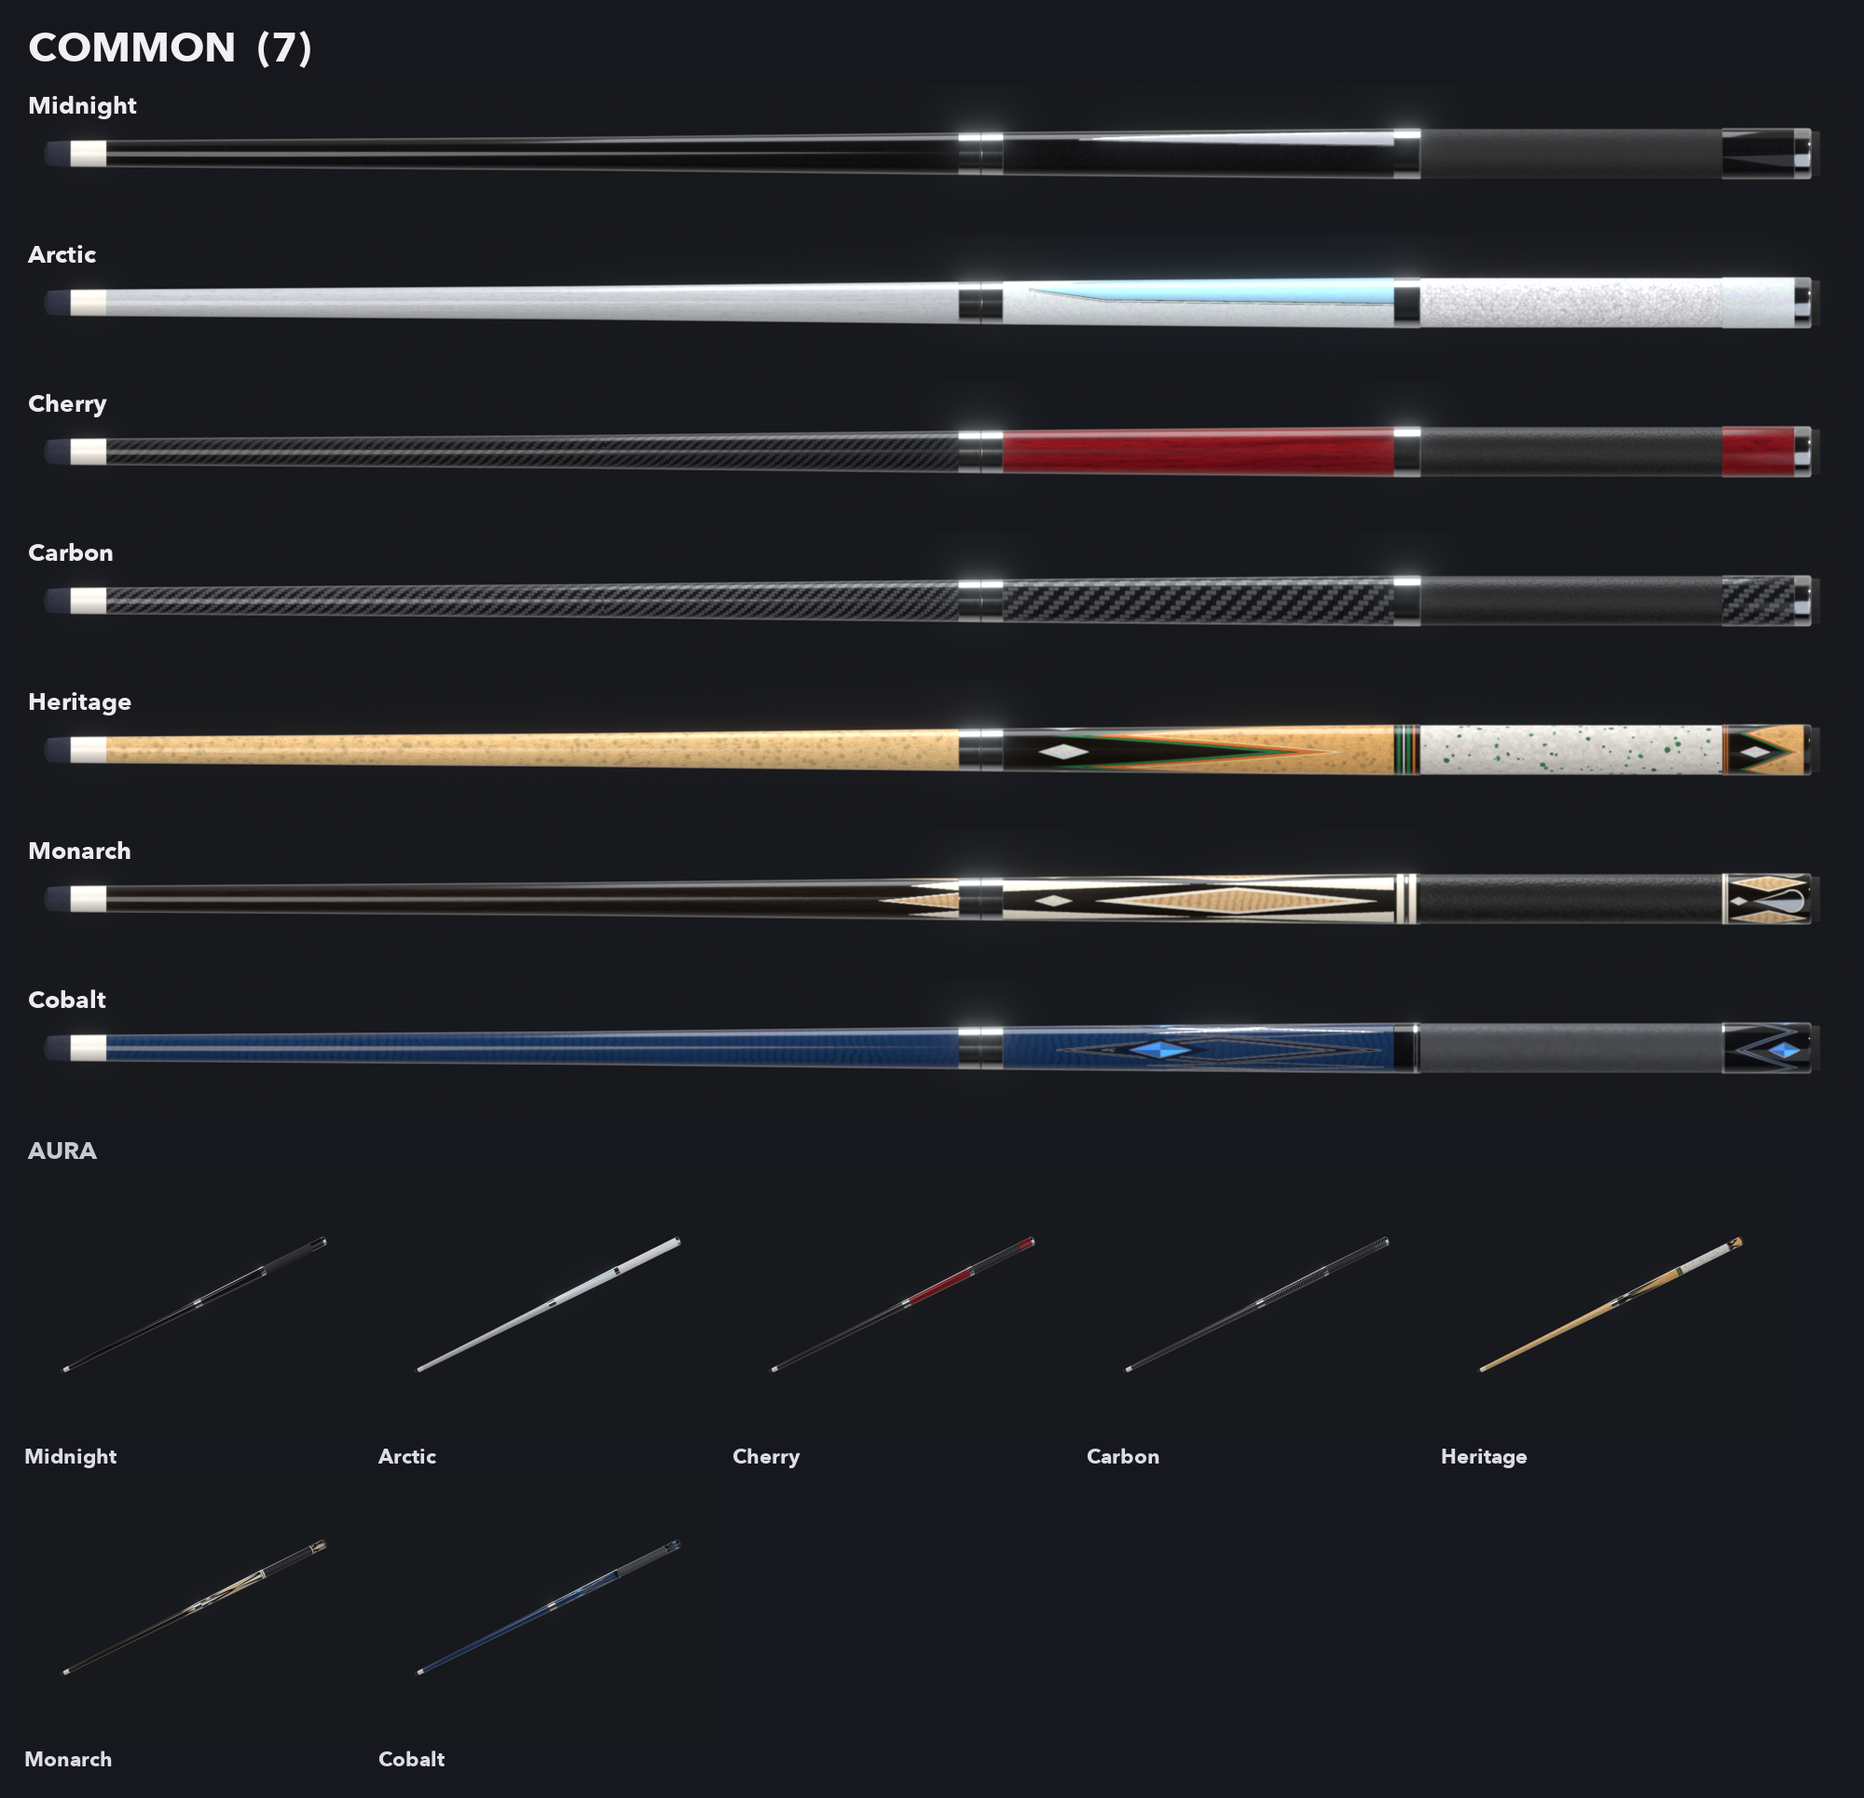
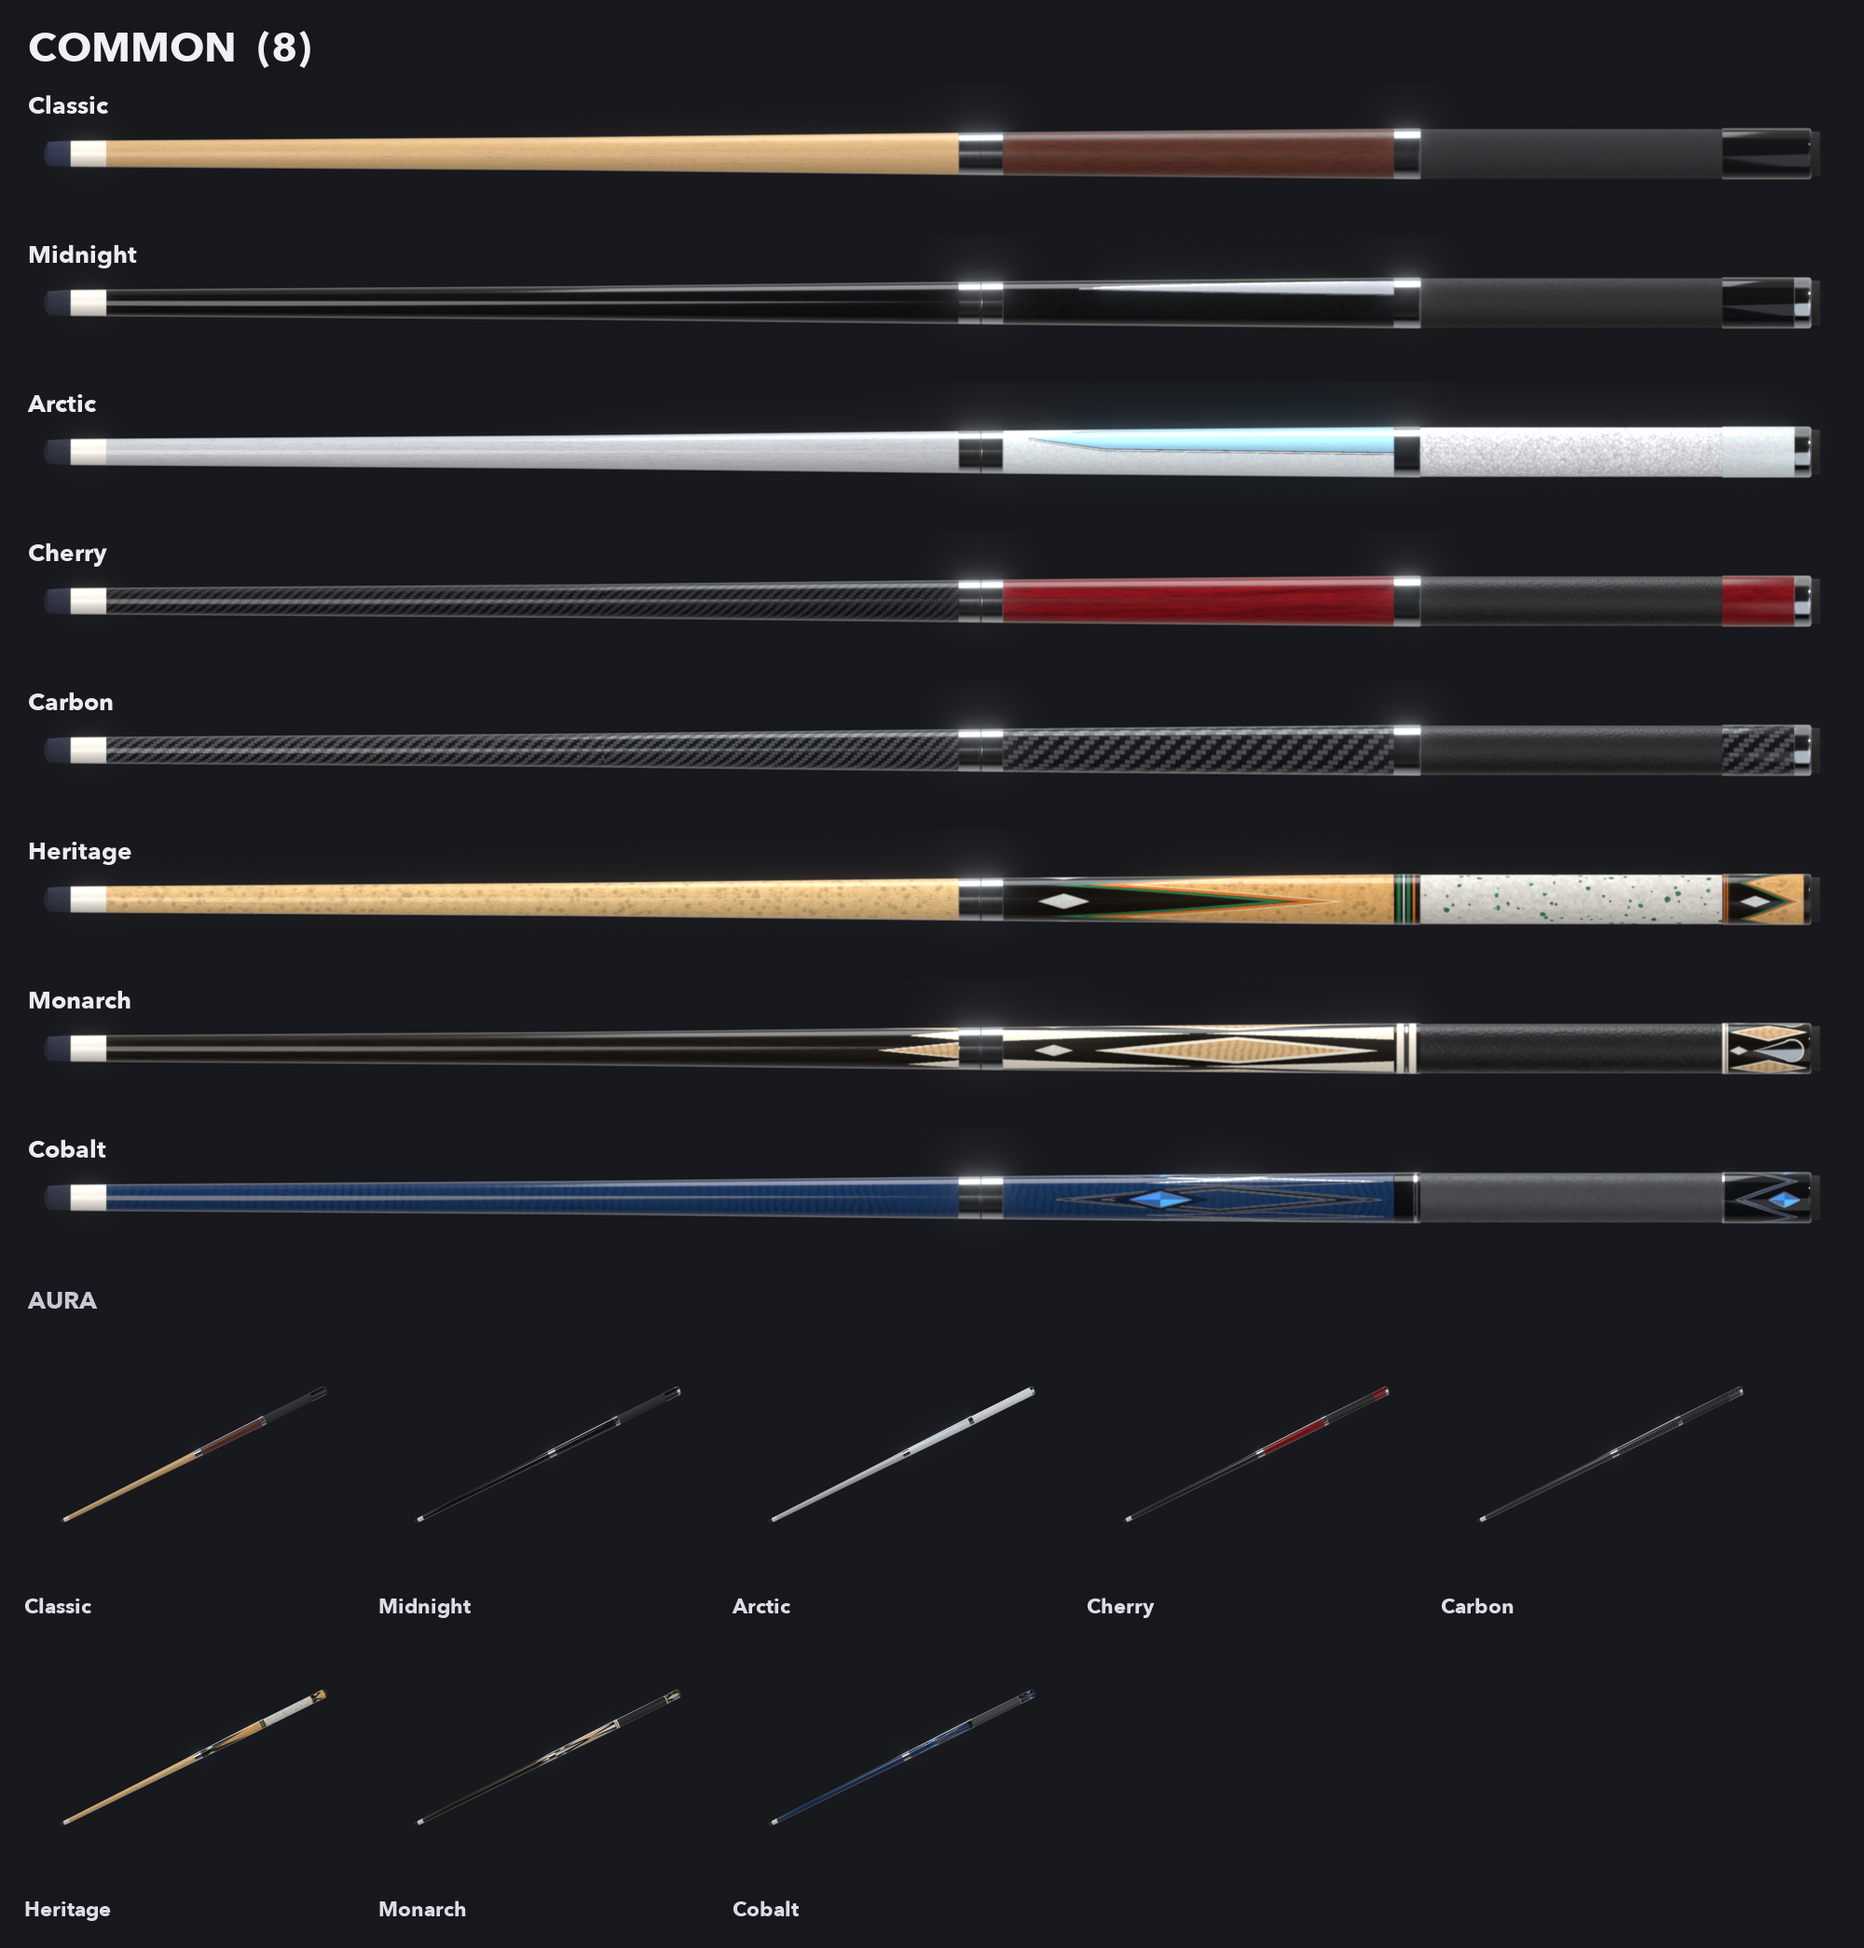
Cue skins: tiers per the designer's plan; Classic labelled Common, still the default
Every skin already matched the plan's tiers; the import spec now lists all 62
cues by tier (report 6.1) and notes the game's 30 placeholders it replaces.
Classic is a Common in name but stays the free default (no case, no trade, no
sale). Common tier sheet now includes Classic.

diff --git a/docs/DECISIONS.md b/docs/DECISIONS.md
@@ -1978,3 +1978,4 @@ caps switch), leaving the plain tiled cloth; no new images needed.
 - 2026-09-30 (designer): **The Celestial Dragon is a whole spirit dragon coiling round the cue, the Kitsune gets a small running spirit fox.** "An animated spiritual dragon spiralling around the cue, not just a dragon head at the butt" (the concept's coiling dragon, head past the tip) and "a small kitsune model constantly running, smooth animations". The dragon's body is scripted (a coil with its own scale texture, a ForceField sheath, a Neon core and flame fins, skinned to a Spin root and seven body bones carrying a travelling wave) with the generated head moved onto its neck; the fox is a new Meshy model (from a side-view gallop reference, 35 credits) rigged for a gallop (front and hind legs half a stride apart, body rise and pitch, head and tails) and carried round the forearm by a Spin. (assumption) Both are aura: a joint can now be marked `Aura` in piece.json and the runtime hides it on the shooter's turn with the rest of the aura. The dragon's snout ends a few inches (about 0.35 studs) short of the tip, never past it (designer: first "not past the tip, a little past halfway", then "a little closer to the tip, a few inches back"); its head circles the shaft as it swims. The fox runs a circle round the forearm (paws toward the cue), the only path the joint motions give that never ends.
 - 2026-09-30 (designer): **The Celestial Dragon moves like a live dragon.** "Move its head more and more spiralling animation, like it's a live dragon with more rigging and animation." The rig grows from 7 body bones to 16 joints: ten body bones carrying two travelling waves (sideways and outward, 2.0 s and 3.1 s), a Tail flick, a two-bone neck (Neck1, Neck2) under the Head, so the rearing, sway, nod and look add up; a roar every 4.8 s (head rears back, jaw gapes); the coil swims at 44°/s (was 32) and surges 0.06 studs along the cue. (assumption) The neck's rearing only ever lifts the head away from the cue (its hinges have a Base equal to their swing), as a full swing dipped the head into the cue; the head's closest approach to the tip is 0.22 studs (0.35 at rest). The spirit flames now ride all ten body bones and the neck at 1.2 a second each (the same total).
 - 2026-09-30 (designer): **The Celestial Dragon swims back and forth along the cue.** "Slithers around back and forth from the cue from tip to butt and turns around, faster animation, more fluid and smooth." The fixed coil is replaced by a swimming loop: the dragon circles the cue three turns each way while it runs between the butt end and the tip end, turning round at each end, a lap every 10 s; its 4.5-stud body (30 spine bones) follows the path its head swam, with a quick body wave and a tail flick. (assumption) A new generic motion kind, `Path`, does this: a joint rides a looping track stored in `piece.json` `Paths` (`CuePieces.path_frame`, report 6.3); the runtime gets the same maths as the other motions. The loop runs on a larger radius going to the butt than coming back so the dragon never swims through itself; the snout stays at least 0.34 studs short of the tip. This supersedes the 16-joint coil entry above.
+- 2026-09-30 (designer): **The cue tiers are the plan's** (`cue_skins_plan.html`): 62 cues, 47 case cues (8 Common, 9 Uncommon, 10 Rare, 9 Epic, 7 Legendary, 3 Mythic, 1 Secret), plus Starter and VIP, 10 Rank and 3 Unique. Every skin file already matched; the game's catalog still has the 30 placeholders and is fixed at import (report 6.1, now with the full tier table). **Classic is labelled Common but stays the free default cue**: everyone owns it, it drops from no case, and it cannot be traded or sold (so the cases drop 7 Commons).

diff --git a/docs/prompts/CUE_SKINS_REPORT.md b/docs/prompts/CUE_SKINS_REPORT.md
@@ -120,10 +120,32 @@ them (`src/`, `tests/` and the shared docs belonged to the abilities run).
 
 ### 6.1 Catalog changes
 
-- **Replace the 30 placeholder case cues** in `src/shared/Progression/Catalog.luau` with the
-  case cues built here (Common to Secret, 46 skins), one row per skin. The id, name, tier and
-  catalog id are in each `assets/cue/skins/<id>.json` (`catalog_id`, for example `KitsuneCue`).
-  Strings go in the shared strings module.
+- **The tiers (designer, 2026-09-30: the plan `cue_skins_plan.html` is the source of truth):**
+  62 cues, 47 of them case cues (8 Common, 9 Uncommon, 10 Rare, 9 Epic, 7 Legendary, 3 Mythic,
+  1 Secret). Every skin file's `tier` matches it:
+
+  | Tier | Count | Cues (`catalog_id`) |
+  |---|---|---|
+  | Common | 8 | Classic (`Classic`), Midnight (`MidnightCue`), Arctic (`ArcticCue`), Cherry (`CherryCue`), Carbon (`CarbonCue`), Heritage (`HeritageCue`), Monarch (`MonarchCue`), Cobalt (`CobaltCue`) |
+  | Uncommon | 9 | Gummy (`GummyCue`), Flare (`FlareCue`), Hornet (`HornetCue`), Venom (`VenomCue`), Lagoon (`LagoonCue`), Splice (`SpliceCue`), Cosmo (`CosmoCue`), Gilded (`GildedCue`), Pixel (`PixelCue`) |
+  | Rare | 10 | Honeycomb (`HoneycombCue`), Neon (`NeonCue`), Nature (`NatureCue`), Candy (`CandyCue`), Frostbite (`FrostbiteCue`), Plasma (`PlasmaCue`), Blaze (`BlazeCue`), Phantom (`PhantomCue`), Tidal (`TidalCue`), Sakura (`SakuraCue`) |
+  | Epic | 9 | Void (`VoidCue`), Shooting Star (`ShootingStarCue`), Magma (`MagmaCue`), Toxic (`ToxicCue`), Blood Moon (`BloodMoonCue`), Prism (`PrismCue`), Aurora (`AuroraCue`), Disco (`DiscoCue`), Hacked (`HackedCue`) |
+  | Legendary | 7 | Chroma (`ChromaCue`), Thunderstrike (`ThunderstrikeCue`), Phoenix (`PhoenixCue`), Kraken (`KrakenCue`), Seraph (`SeraphCue`), Infernal (`InfernalCue`), Clockwork (`ClockworkCue`) |
+  | Mythic | 3 | Celestial Dragon (`CelestialDragonCue`), Kitsune (`KitsuneCue`), Apex (`ApexCue`) |
+  | Secret | 1 | Eclipse (`EclipseCue`) |
+  | Exclusive | 2 | Starter Cue (`StarterCue`), VIP Cue (`VipCue`) |
+  | Rank | 10 | Bronze Cue (`BronzeCue`), Silver Cue (`SilverCue`), Gold Cue (`GoldCue`), Platinum Cue (`PlatinumCue`), Diamond Cue (`DiamondCue`), Expert Cue (`ExpertCue`), Veteran Cue (`VeteranCue`), Master Cue (`MasterCue`), Grandmaster Cue (`GrandmasterCue`), Reyes Cue (`ReyesCue`) |
+  | Unique | 3 | Founder's Cue, Beta Cue, Grand Opening: not built yet (deferred by the designer) |
+
+- **Replace the 30 placeholder case cues** in `src/shared/Progression/Catalog.luau` (7 Common,
+  6 Uncommon, 6 Rare, 5 Epic, 3 Legendary, 2 Mythic, 1 Secret today) with the case cues above,
+  one row per skin, in the plan's order. The id, name, tier and catalog id are in each
+  `assets/cue/skins/<id>.json` (`catalog_id`, for example `KitsuneCue`). Strings go in the
+  shared strings module. Update the case drop pools and odds tables that count cues per tier.
+- **Classic is labelled Common but stays the default (designer, 2026-09-30):** its row's
+  `Rarity` becomes `Common` (shop, inventory and Index show it as a Common), but everyone still
+  owns it from the start, it is in no case (`Cases = {}`), and it stays not tradable and not
+  sellable. So the cases drop 7 Commons. Check every place that tests `Rarity == "Default"`.
 - **Exclusive and Rank cues** already have ids (`StarterCue`, `VipCue`, `BronzeCue` ...
   `ReyesCue`); their rows just need to point at the new looks.
 - **The Starter Cue becomes tradable** (designer, 2026-09-29): set `Tradable = true` on its

diff --git a/docs/prompts/CUE_SKINS_IMPORT_PROMPT.md b/docs/prompts/CUE_SKINS_IMPORT_PROMPT.md
@@ -14,6 +14,9 @@ simple steps.
 - **`docs/prompts/CUE_SKINS_REPORT.md`, section 6 ("For the import session")**: the catalog
   changes, the `Config.Effects` rows, everything the cue builder needs, the upload list and the
   doc updates. It is the spec for this brief.
+- **The tiers:** the designer's plan `~/Desktop/cue_skins_plan.html` is the source of truth for
+  every cue's tier (designer, 2026-09-30); report 6.1 has it as a table. Classic shows as a
+  Common but stays the free default (in no case, not tradable, not sellable).
 - `docs/prompts/CUE_SKINS_REVIEW.md`: one row per skin (what was built and why). Rows with a
   `fix:` from the designer are fixed before import.
 - `docs/DECISIONS.md` from 2026-09-29 on: the run's assumptions and the designer's choices.
